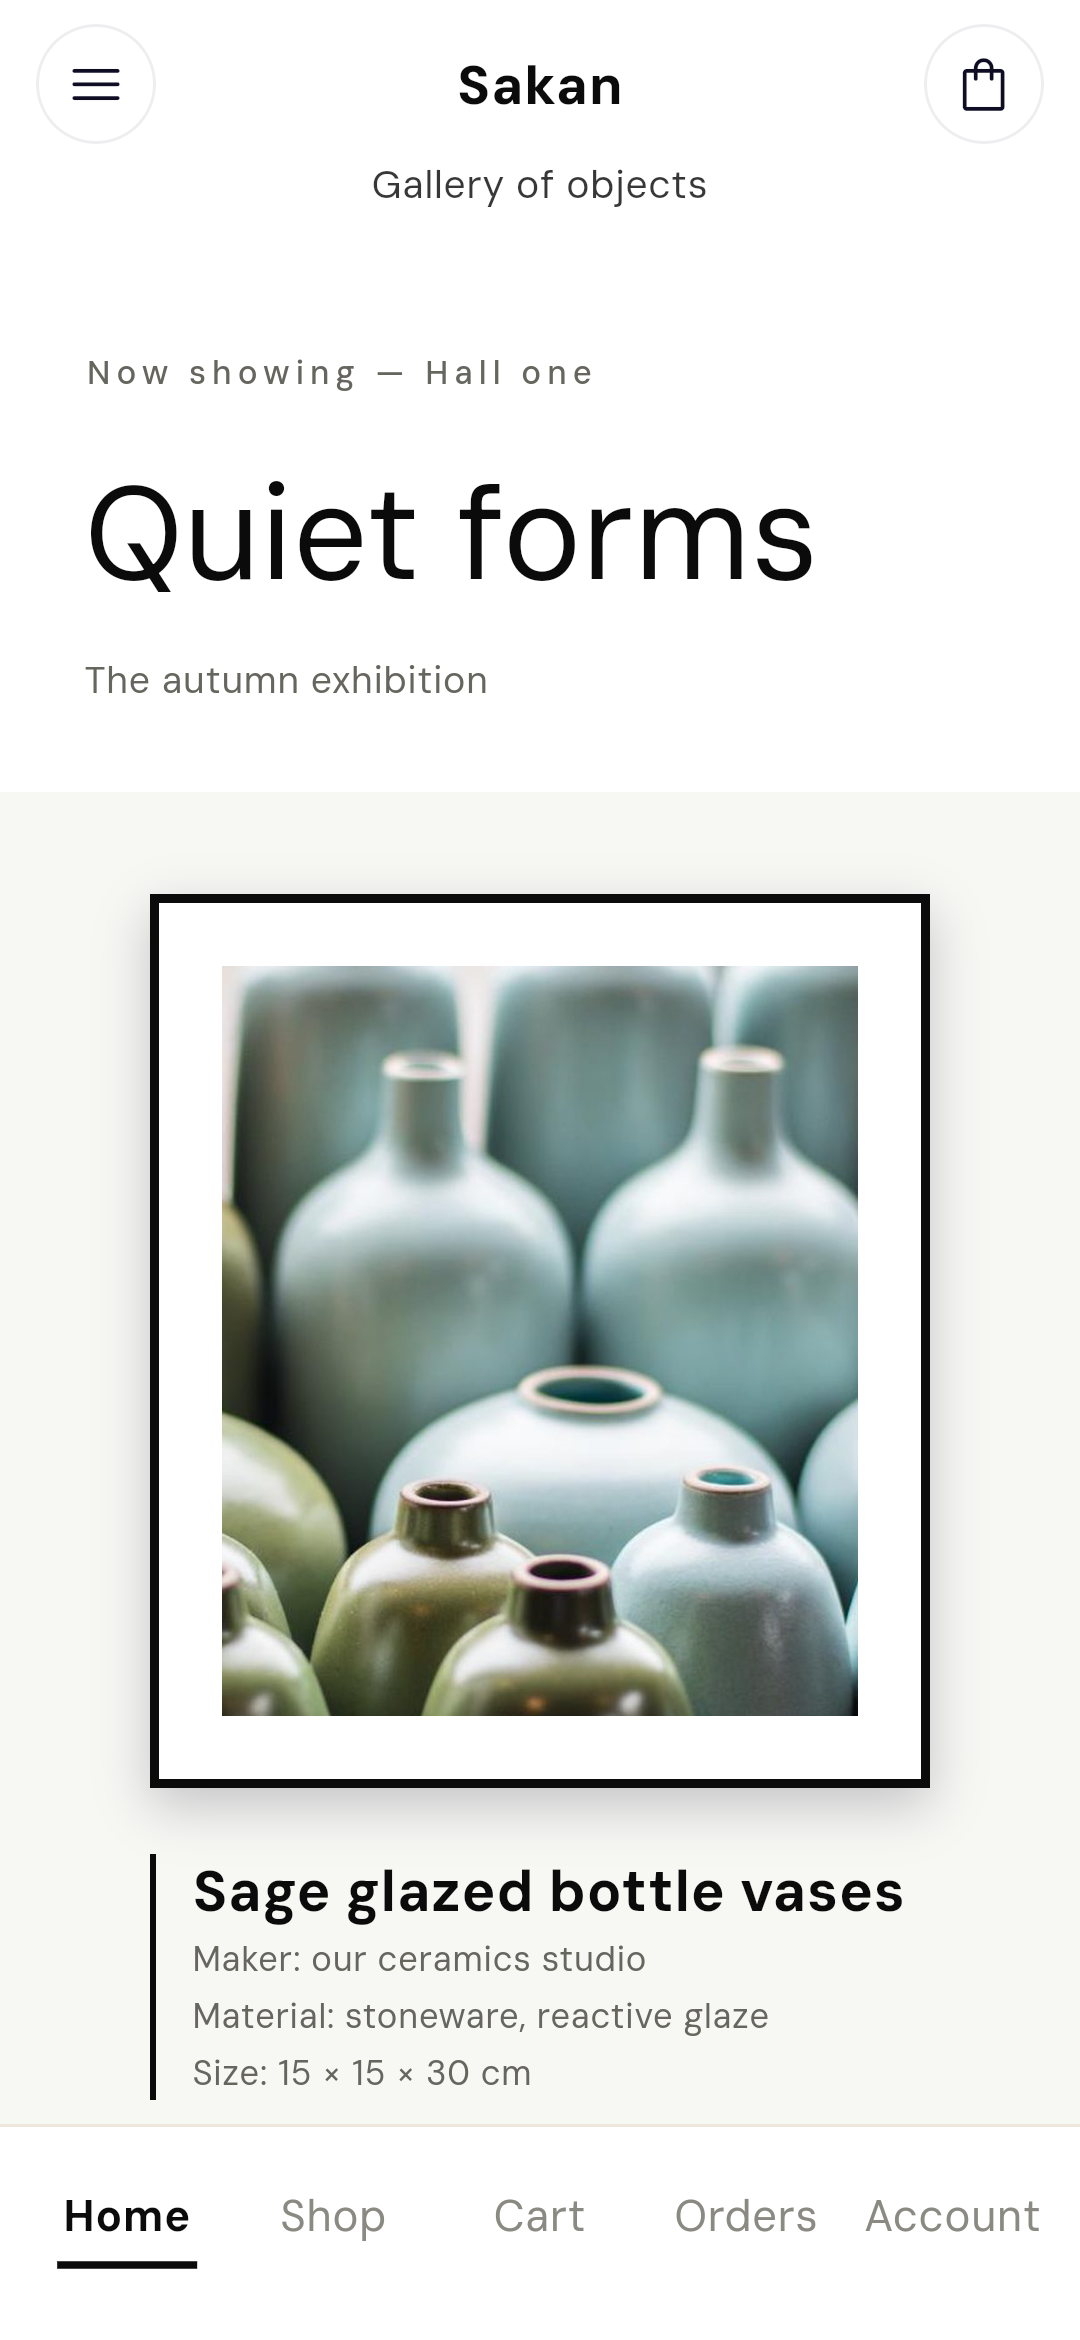
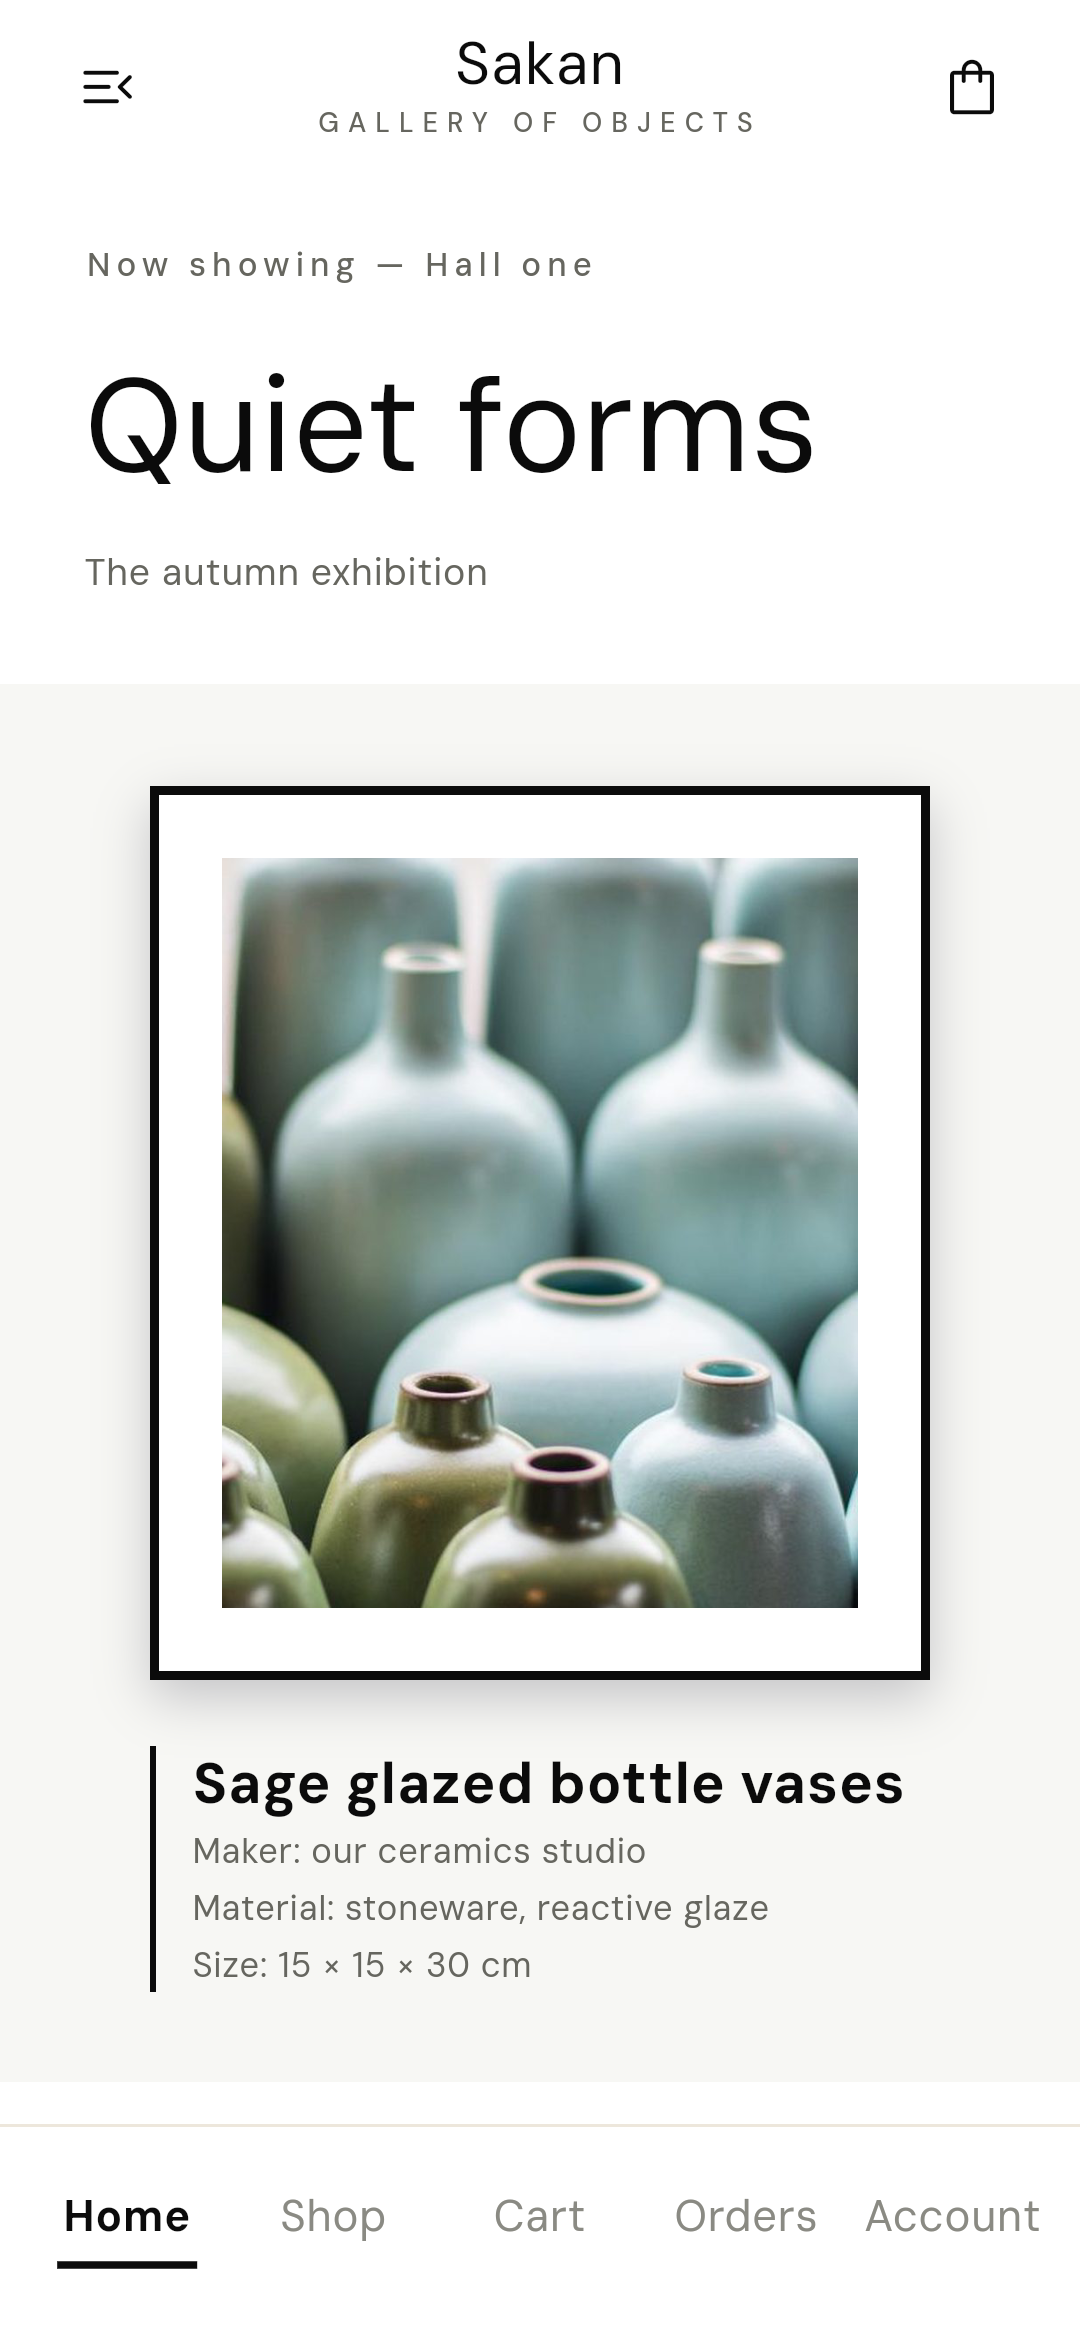
225 MANZIL's top pinned above its room switcher
Claude-Session: https://claude.ai/code/session_01PYAXYcncLY9hbcCRudL4E1

diff --git a/platform/web/src/lib/studio/demo-designs/furniture-d-signature.ts b/platform/web/src/lib/studio/demo-designs/furniture-d-signature.ts
@@ -382,9 +382,13 @@ function houseTop(ctx: SectionContext): StudioNode {
     id: id(),
     type: "row",
     name: ctx.w("fuWordmark"),
+    // Pinned with the switcher under it: the name and its buttons stay while the rooms scroll.
+    pin: "top",
     gap: 10,
     cross: "center",
     padding: sides(8, 16, 6, 16),
+    background: K.page,
+    dark_background: K.darkPage,
     children: [
       roundButton(ctx, "menu_open", "skCategoryMenu", ownPage(ctx, MENU_PAGE), true),
       { id: id(), type: "column", width: "fill", gap: 0, children: [say(ctx, L, "fuWordmark", font(22, 800), { max_lines: 1 }), say(ctx, L, "mnTagline", font(11.5), { muted: true, max_lines: 1 })] },
